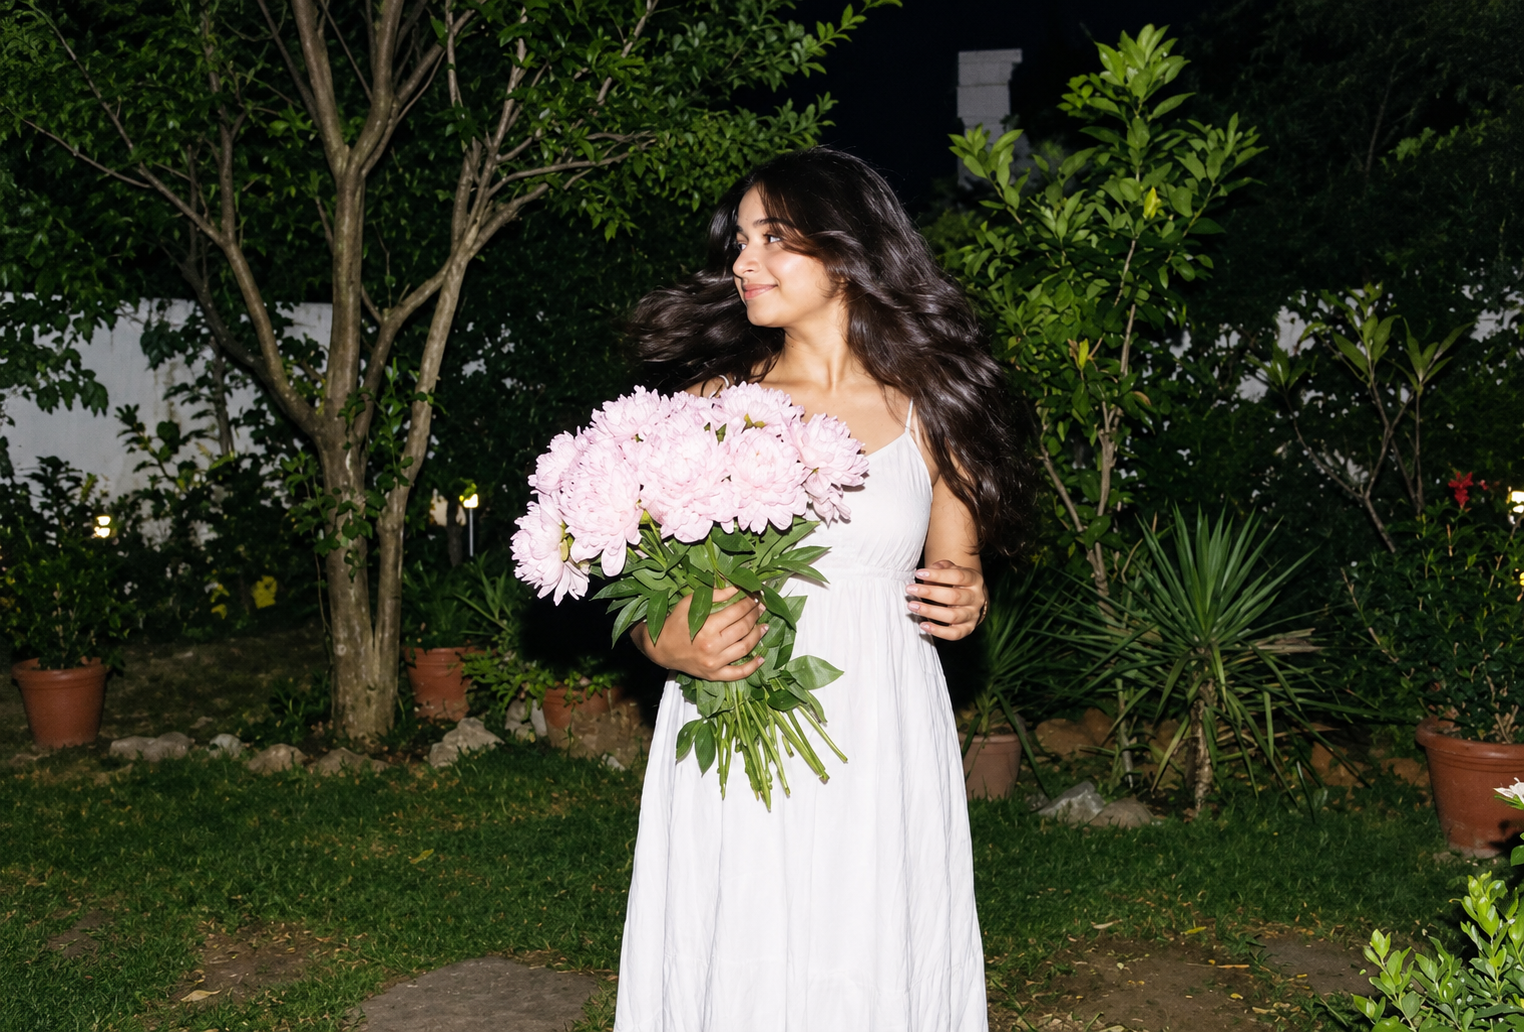
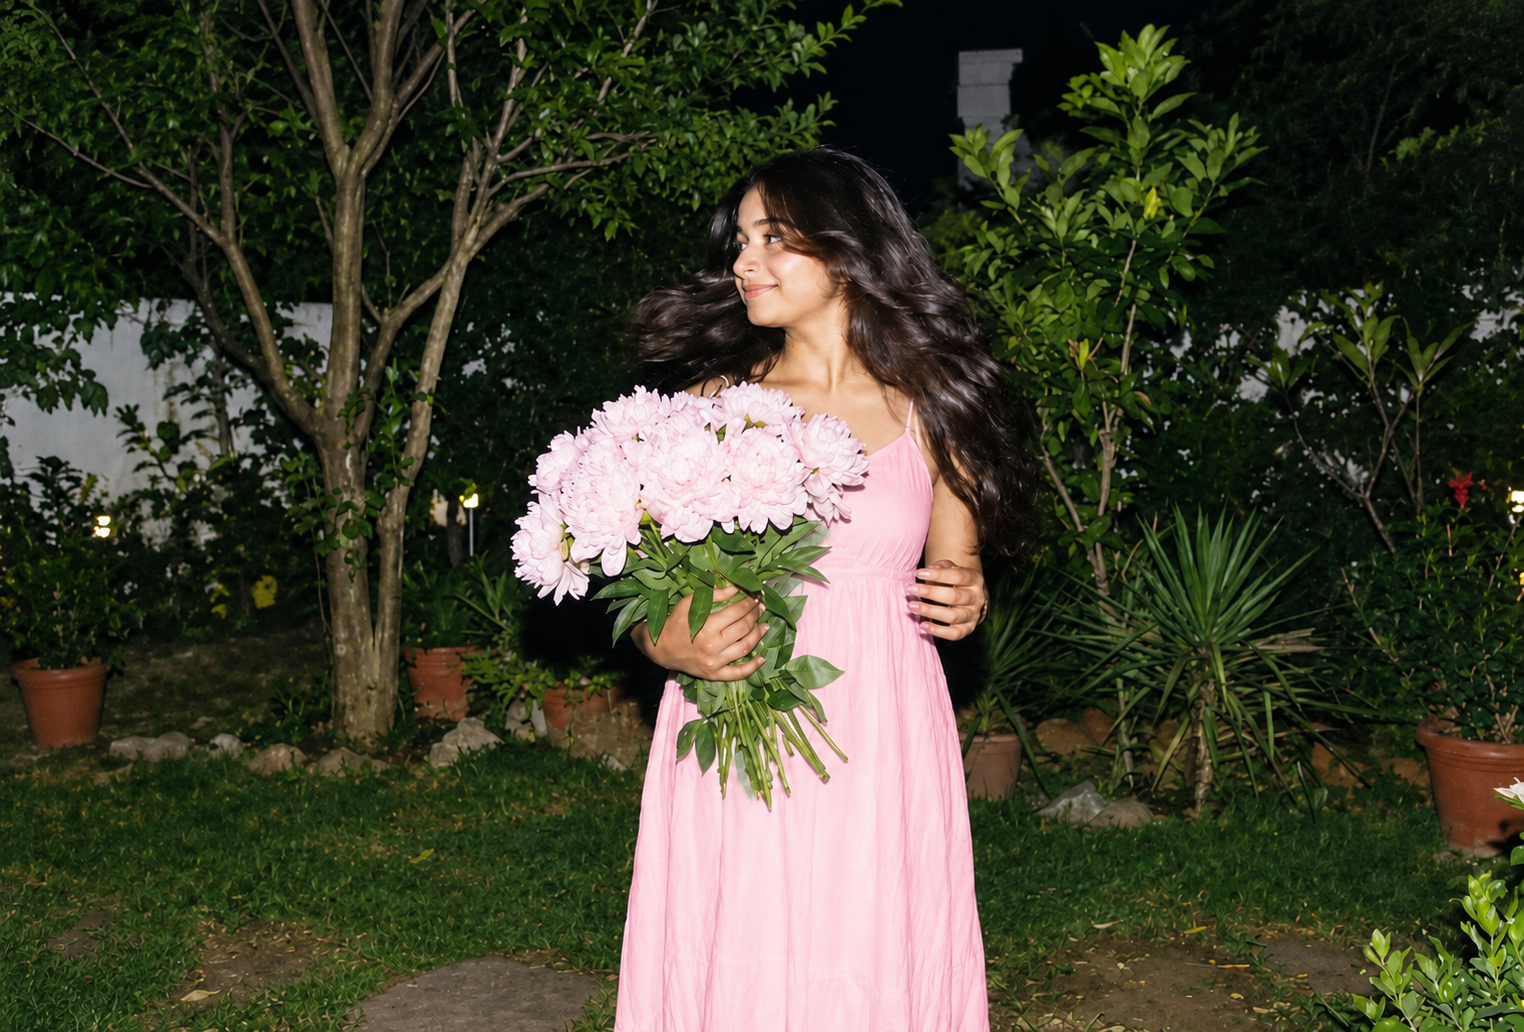
initial commit

diff --git a/src/components/Herotext.jsx b/src/components/Herotext.jsx
@@ -2,7 +2,7 @@ import { useGSAP } from "@gsap/react";
 import gsap from "gsap";
 import { useEffect, useState } from "react";
 
-const Herotext = () => {
+const Herotext = ({ startAnimation = false }) => {
   const [time, setTime] = useState("");
   const name = `Simran Koli`
 
@@ -11,7 +11,9 @@ const Herotext = () => {
   }
 
   useGSAP(() => {
-    const tl = gsap.timeline()
+    if (!startAnimation) return;
+
+    const tl = gsap.timeline();
     gsap.to(".scroll-arrow", {
       y: 5,
       duration: 0.8,
@@ -19,12 +21,12 @@ const Herotext = () => {
       yoyo: true,
       ease: "power1.inOut",
     });
-    tl.from(".hire", { y: 50, opacity: 0 })
-    tl.from(".name-char", { y: 50, opacity: 0, stagger: 0.15 })
-    tl.from(".frontend", { opacity: 0, y: 50 })
-    tl.from(".developer", { opacity: 0, y: 50 })
-    tl.from(".para-line", { opacity: 0, y: 50, stagger: 0.15 })
-  })
+    tl.from(".hire", { y: 50, opacity: 0 });
+    tl.from(".name-char", { y: 50, opacity: 0, stagger: 0.15 });
+    tl.from(".frontend", { opacity: 0, y: 50 });
+    tl.from(".developer", { opacity: 0, y: 50 });
+    tl.from(".para-line", { opacity: 0, y: 50, stagger: 0.15 });
+  }, [startAnimation]);
   useEffect(() => {
     const updateTime = () => {
       setTime(
@@ -43,14 +45,14 @@ const Herotext = () => {
   return (
     <main className="w-full text-white">
       <div
-        className="mx-auto flex min-h-screen w-full max-w-350 flex-col items-start px-5 pt-50 sm:px-8 md:px-12 md:pt-30 lg:px-20 lg:pt-25 xl:px-24">
+        className="mx-auto flex min-h-screen w-full max-w-350 flex-col items-start px-5 pt-80 sm:px-8 md:px-12 md:pt-30 lg:px-20 lg:pt-25 xl:px-24">
         <div className="hire px-1 flex items-center gap-2 sm:gap-3">
           <span className="relative flex h-2 w-2 shrink-0">
             <span className="absolute inline-flex h-full w-full animate-ping rounded-full bg-white" />
-            <span className="relative inline-flex h-2 w-2 rounded-full bg-[#E8E2D8]" />
+            <span className="relative inline-flex h-2 w-2 rounded-full bg-[#dfaed6]" />
           </span>
           <span
-            className="font-[space] text-[8px] uppercase tracking-[0.22em] text-[#D6D2CA] sm:text-[9px] sm:tracking-[0.28em] md:text-[10px]  md:tracking-[0.32em]
+            className="font-[space] text-[8px] uppercase tracking-[0.22em] text-pink-300 sm:text-[9px] sm:tracking-[0.28em] md:text-[10px]  md:tracking-[0.32em]
   "
           >
             Available for opportunities
@@ -65,7 +67,7 @@ const Herotext = () => {
               {char === " " ? "\u00A0" : char}
             </span>
           ))}
-          <span className="text-[#e4dfd8]">.</span>
+          <span className="text-[#f4b1e1]">.</span>
         </h1>
         
         <div
@@ -80,7 +82,7 @@ const Herotext = () => {
               Developer
             </span>
           </div>
-          <p className="mt-3 max-w-75 overflow-hidden font-[stars] text-[11px] md:leading-normal sm:leading-[1.85] text-[#c0bdb4] sm:max-w-85 sm:text-xs md:max-w-92.5 md:text-[15px]">
+          <p className="mt-3 max-w-75 overflow-hidden font-[stars] text-[11px] md:leading-normal sm:leading-[1.85] text-gray-400 sm:max-w-85 sm:text-xs md:max-w-92.5 md:text-[15px]">
             <span className="para-line block">I build modern, interactive and responsive digital</span>
             <span className="para-line block">experiences with React, GSAP and thoughtful</span>
             <span className="para-line block">frontend design</span>

diff --git a/src/components/Loader.jsx b/src/components/Loader.jsx
@@ -7,7 +7,6 @@ const Loader = ({ onComplete }) => {
 
   useGSAP(() => {
     const counter = { value: 0 };
-
     const tl = gsap.timeline({
       onComplete,
     });
@@ -16,7 +15,6 @@ const Loader = ({ onComplete }) => {
       value: 100,
       duration: 2,
       ease: "power2.inOut",
-
       onUpdate: () => {
         if (counterRef.current) {
           counterRef.current.textContent = `${Math.round(counter.value)}%`;
@@ -25,23 +23,16 @@ const Loader = ({ onComplete }) => {
     })
       .to(".loader-text", {
         opacity: 1,
-        duration: 0.4,
-      })
-      .to(".loader-text", {
-        opacity: 0,
-        duration: 1,
-        delay: 0.3,
       })
       .to(".loader", {
         yPercent: -100,
-        duration: 1,
         ease: "power4.inOut",
       });
   });
 
   return (
     <div className="loader fixed inset-0 z-99999 flex flex-col items-center justify-center bg-[#020617] text-white">
-
+    
       {/* Counter */}
       <span
         ref={counterRef}
@@ -53,11 +44,6 @@ const Loader = ({ onComplete }) => {
       {/* Loading */}
       <span className="mt-3 font-[space] md:text-6xl sm:text-5xl uppercase tracking-[0.35em] text-white/70">
         Loading
-      </span>
-
-      {/* Name */}
-      <span className="loader-text text-center mt-4 font-[space] md:text-6xl sm:text-4xl uppercase tracking-[0.2em] text-white opacity-0">
-        Welcome to my space
       </span>
 
     </div>

diff --git a/src/pages/Work.jsx b/src/pages/Work.jsx
@@ -17,8 +17,8 @@ const Work = () => {
       title: 'Weatherly',
       description: 'Real-time weather, made simple.',
       image: weatherImg,
-      url: 'https://exchangecurrencywith.netlify.app/',
-      github_url: 'https://github.com/simrankoli-01/weather-app'
+      url: 'https://weatherlywithus.netlify.ap',
+      github_url: 'https://github.com/simrankoli-01/Weather'
     },
     {
       id: 2,
@@ -30,14 +30,6 @@ const Work = () => {
     },
     {
       id: 3,
-      title: 'Convert',
-      description: 'Simple currency conversion.',
-      image: currencyImg,
-      url: 'https://exchangecurrencywith.netlify.app/',
-      github_url: 'https://github.com/simrankoli-01/weather-app'
-    },
-    {
-      id: 4,
       title: 'Convert',
       description: 'Simple currency conversion.',
       image: currencyImg,

diff --git a/src/index.js b/src/index.js
@@ -9,7 +9,6 @@ export { default as blogImg } from "./assets/images/blog.webp";
 export { default as currencyImg } from "./assets/images/currency.webp";
 export { default as desktop } from "./assets/images/desktops.png";
 export { default as weatherImg } from "./assets/images/forecast.webp";
-export { default as simran2 } from "./assets/images/simran2.jpg";
 export { default as simranImage } from "./assets/images/simran3.png";
 export { default as simranImg } from "./assets/images/simran4.png";
 export { default as profile } from "./assets/images/simran5.png";

diff --git a/src/pages/Home.jsx b/src/pages/Home.jsx
@@ -1,7 +1,7 @@
 import Herotext from "../components/Herotext";
 import simranImage from "../assets/images/simran3.png";
 
-const Home = () => {
+const Home = ({ startAnimation = false }) => {
   return (
     <header
       className=" w-full
@@ -22,7 +22,7 @@ const Home = () => {
           z-10
         "
       >
-        <Herotext />
+        <Herotext startAnimation={startAnimation} />
       </div>
 
       <div

diff --git a/src/App.jsx b/src/App.jsx
@@ -54,7 +54,7 @@ const App = () => {
         <Navbar scrollRef={scrollRef} />
         <div className="w-full relative">
           <div className="stack-page relative z-1 w-full min-h-screen">
-            <Home />
+            <Home startAnimation={!loading} />
           </div>
           <div id="intro" className="stack-page relative z-2 w-full min-h-screen">
             <Intro />
